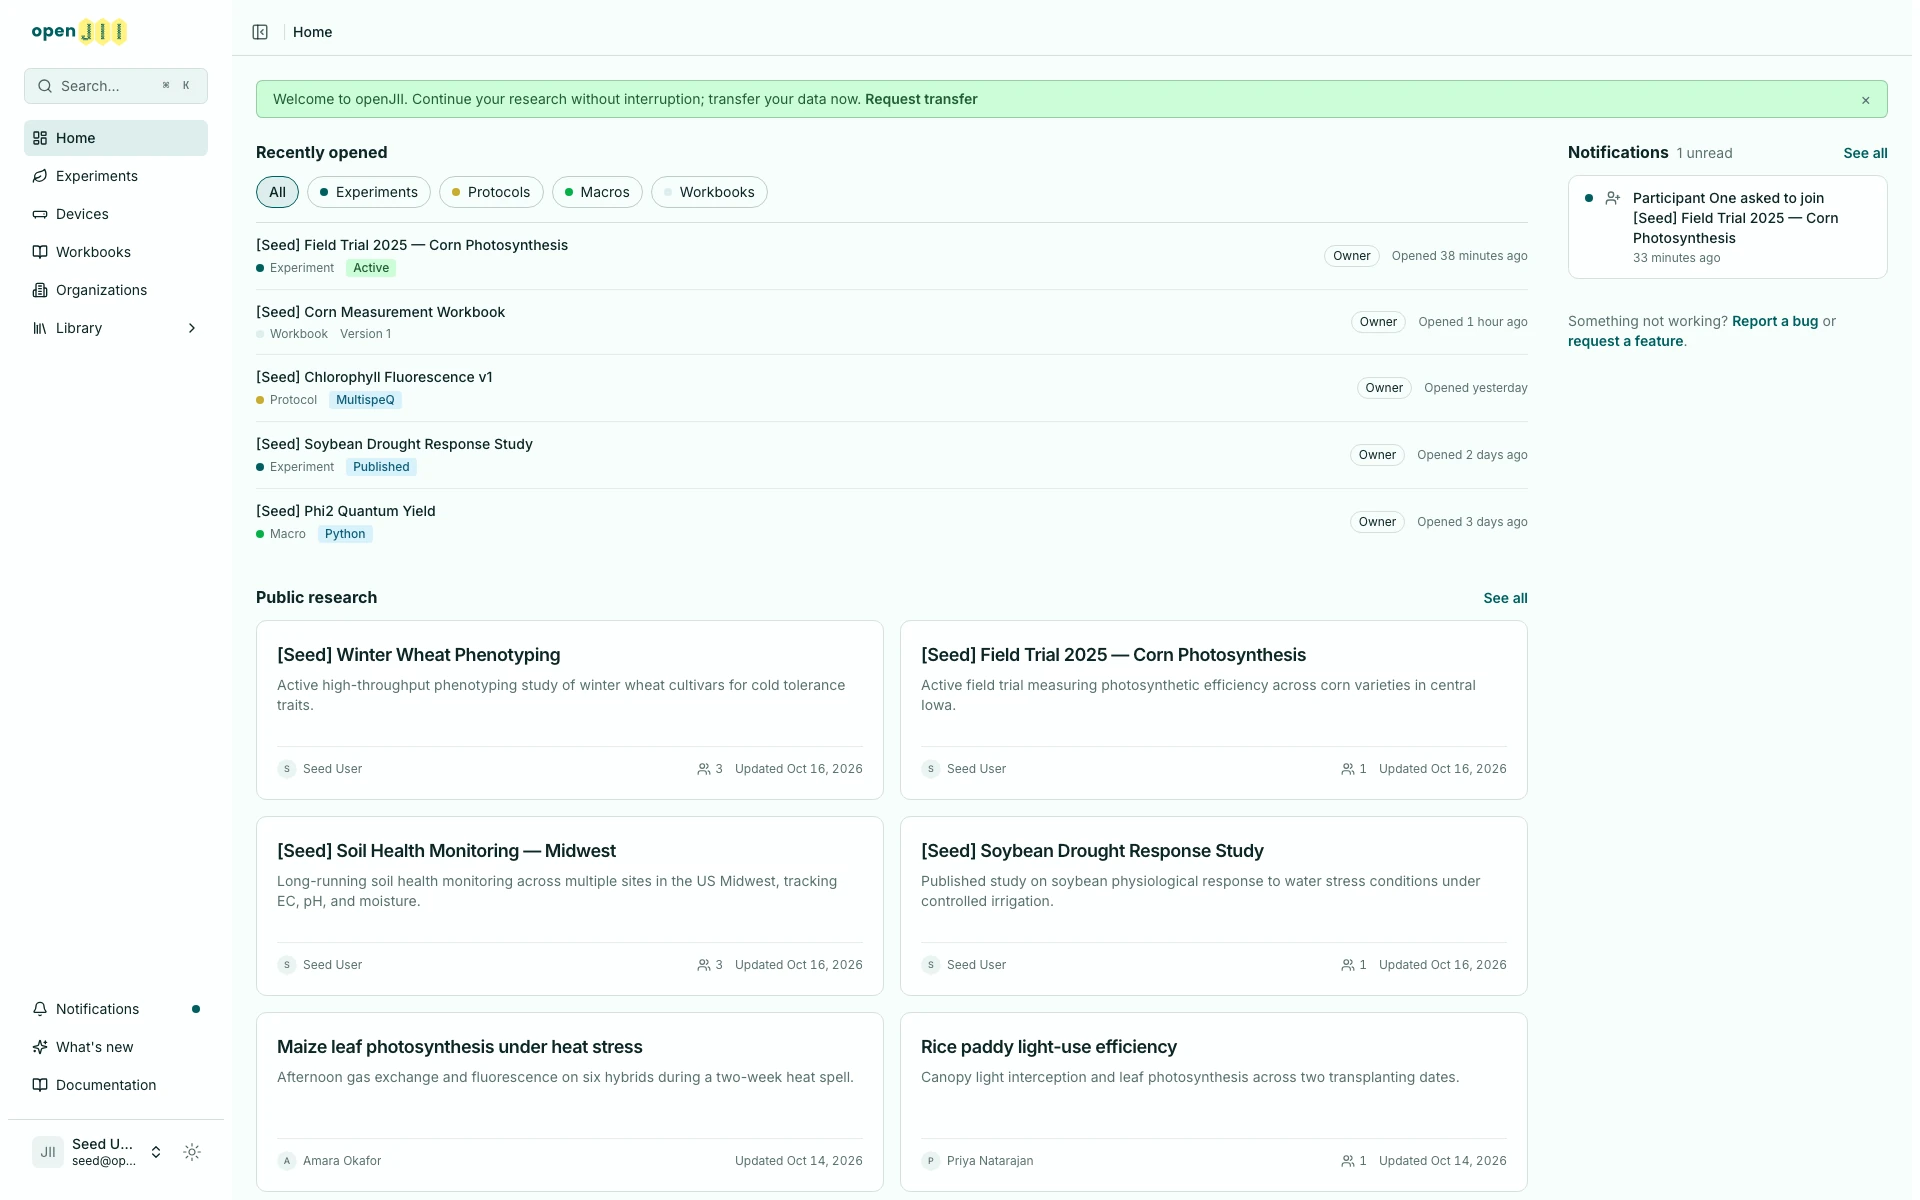
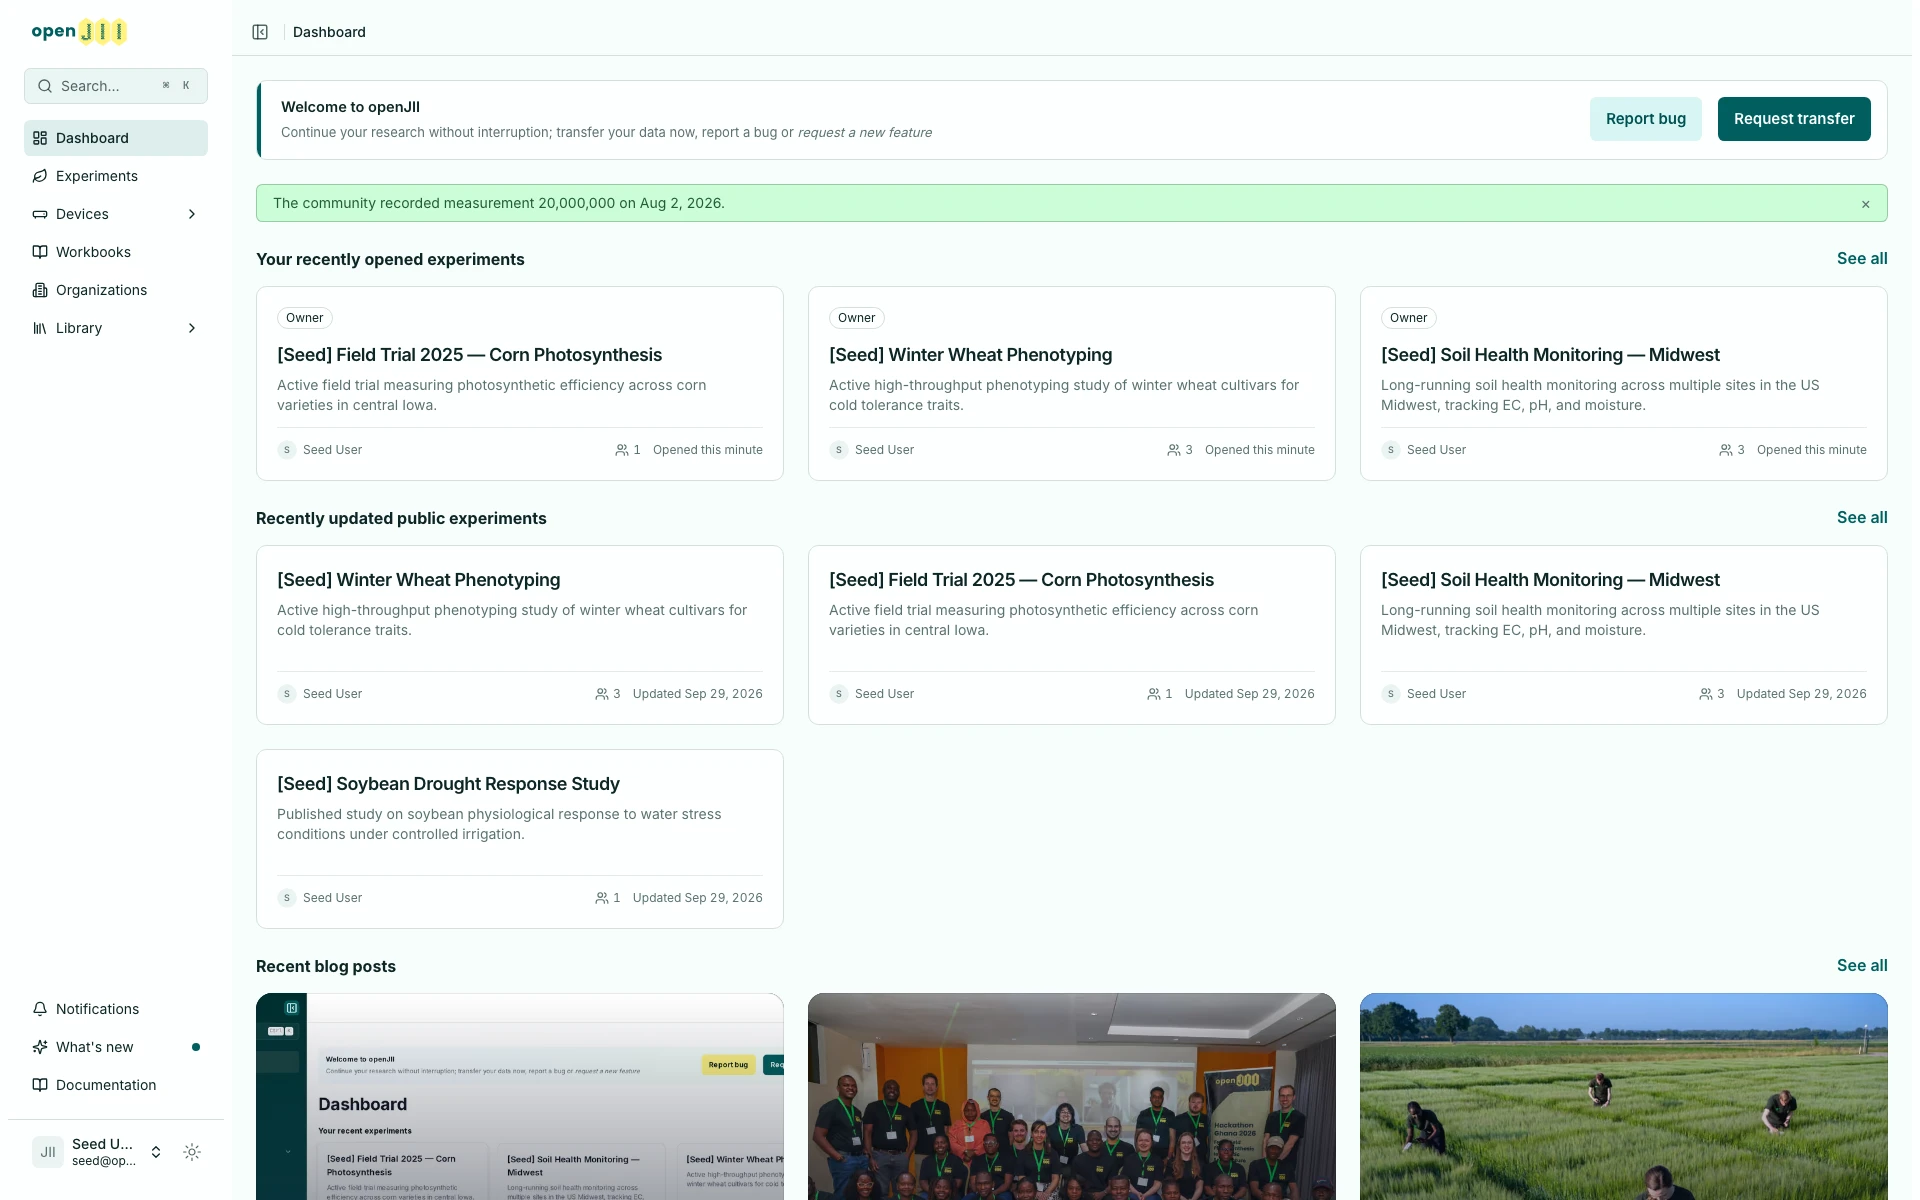
docs: keep docs screenshots out of the home layout change

diff --git a/apps/e2e/docs-media/shots.ts b/apps/e2e/docs-media/shots.ts
@@ -161,7 +161,7 @@ export const SHOTS: readonly Shot[] = [
     frame: "desktop",
     route: "/platform",
     scope:
-      "Home: welcome notice, Recently opened across types with its type chips, Public research, and unread notifications beside them",
+      "Authenticated dashboard: welcome card, experiments selected from real visits or related work, compact contextual header",
   },
   {
     slug: "dashboard-first-work",
@@ -169,7 +169,7 @@ export const SHOTS: readonly Shot[] = [
     frame: "desktop",
     route: "/platform",
     session: "newcomer",
-    scope: "Home for a researcher with no related experiments, with the three Get started cards",
+    scope: "Dashboard with no accessible related experiments and the three first-work cards",
   },
   {
     slug: "experiments-list",
@@ -223,7 +223,7 @@ export const SHOTS: readonly Shot[] = [
     publish: "img/guide/web/report-issue.webp",
     frame: "desktop",
     route: "/platform",
-    scope: "Report a bug link under the last section of Home's side column",
+    scope: "Report bug action in the dashboard welcome card",
   },
   {
     slug: "create-experiment-details",
@@ -357,7 +357,7 @@ export const SHOTS: readonly Shot[] = [
       await page.keyboard.press("ControlOrMeta+k");
       await settle(page, 1200);
     },
-    scope: "Command palette open over Home",
+    scope: "Command palette open over the dashboard",
   },
   {
     slug: "cheatsheet",
